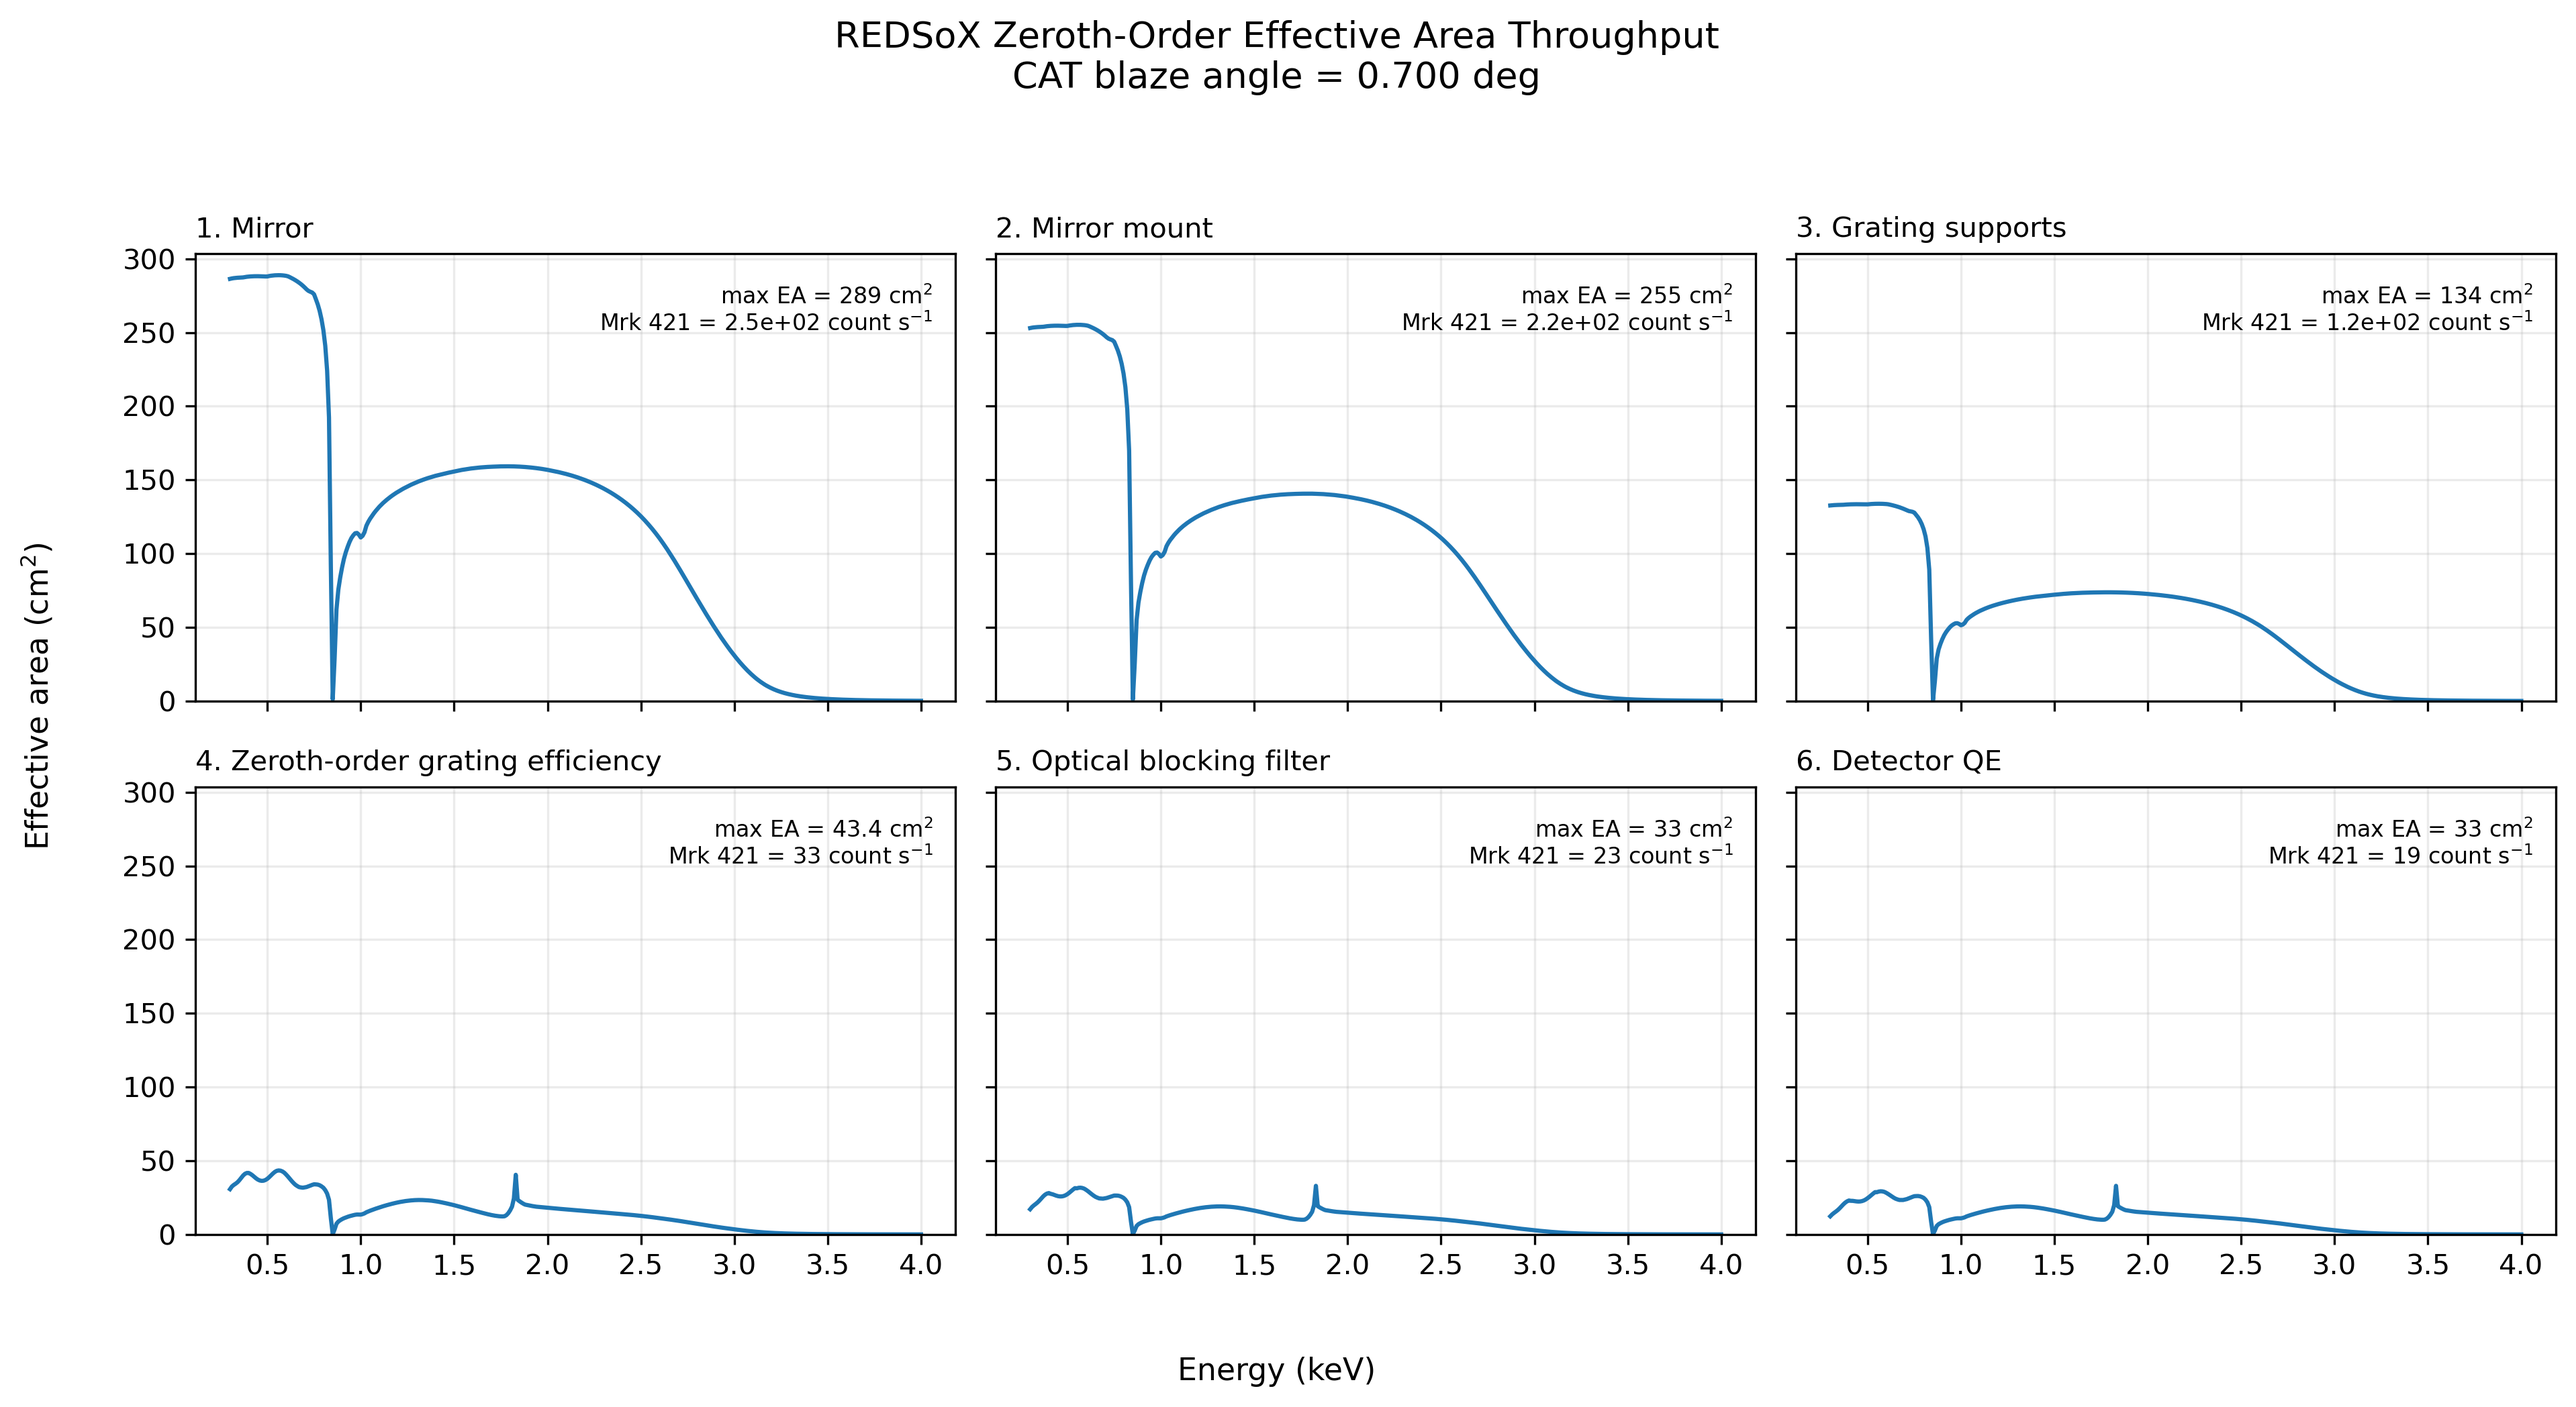
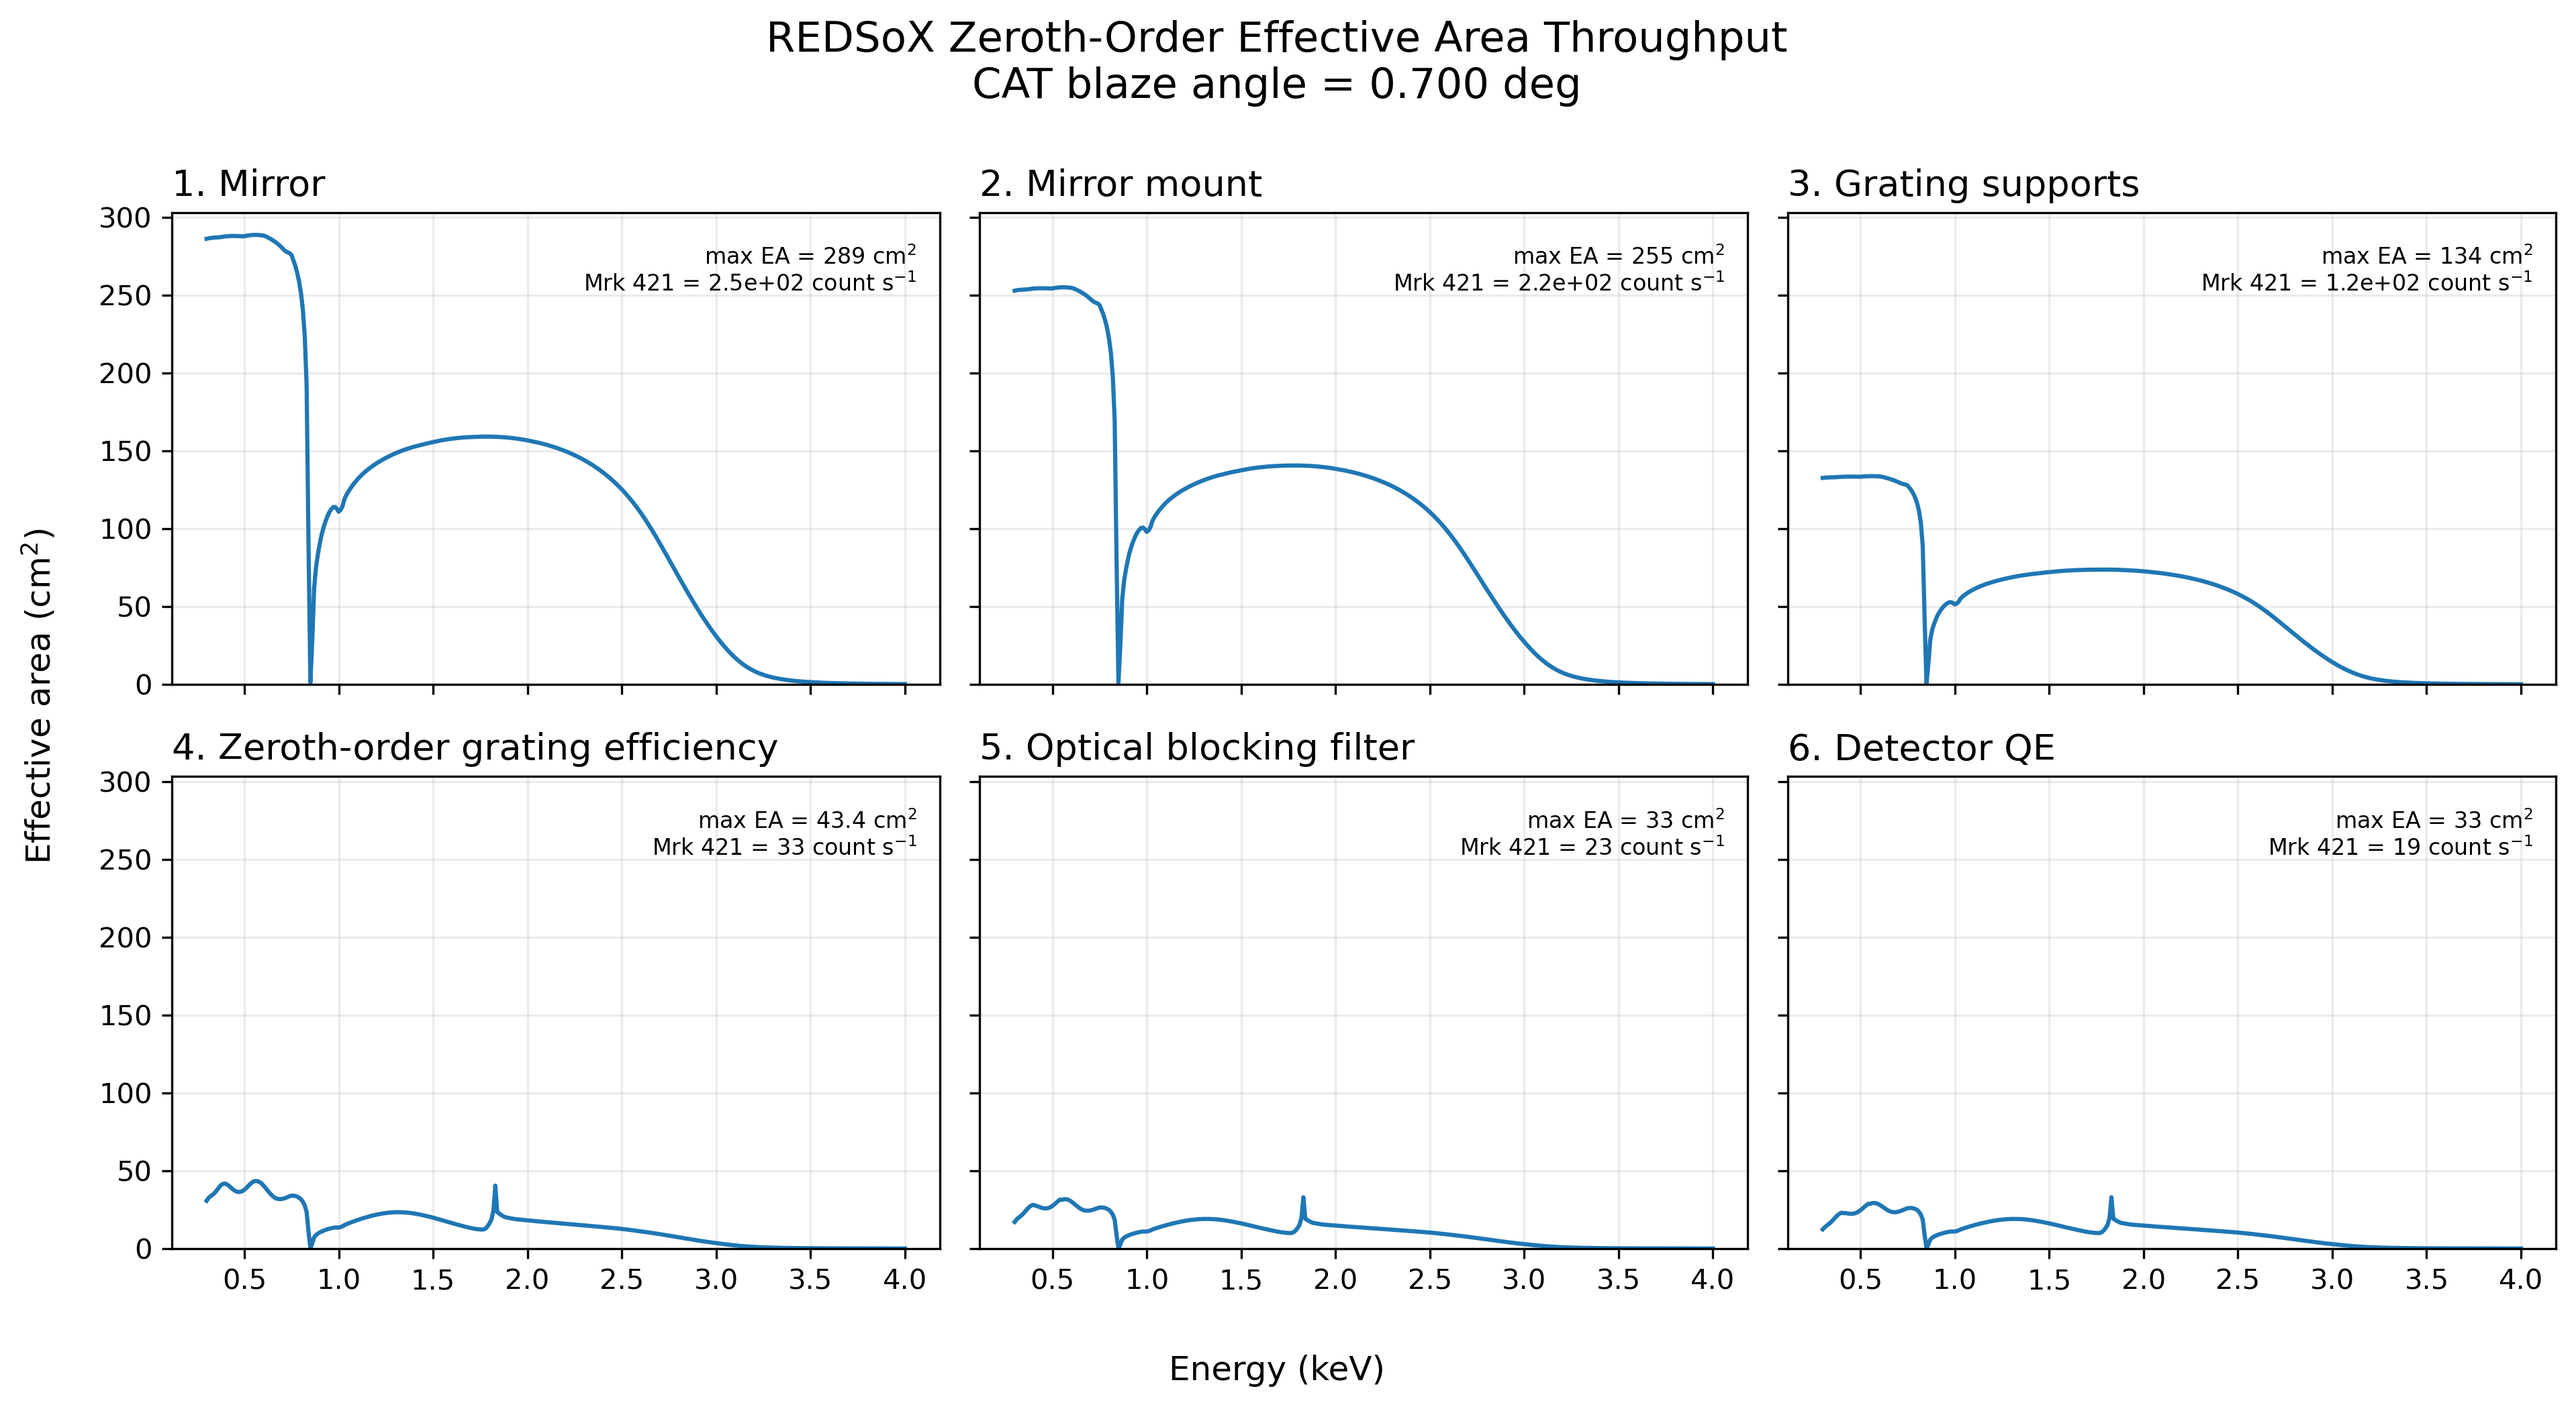
Updated stages plot

diff --git a/plot_redsox.py b/plot_redsox.py
@@ -491,7 +491,7 @@ def plot_effective_area_stages(
         area_plot = area[plot_order]
 
         ax.plot(energy_plot, area_plot, linewidth=1.5)
-        ax.set_title(stage_labels[stage_name], loc="left", fontsize=10)
+        ax.set_title(stage_labels[stage_name], loc="left", fontsize=13)
         ax.set_ylim(0.0, common_ymax)
         ax.grid(alpha=0.25)
 
@@ -512,16 +512,16 @@ def plot_effective_area_stages(
             fontsize=8,
         )
 
-    fig.supxlabel("Energy (keV)", fontsize=11)
-    fig.supylabel(r"Effective area (cm$^2$)", fontsize=11)
+    fig.supxlabel("Energy (keV)", fontsize=12)
+    fig.supylabel(r"Effective area (cm$^2$)", fontsize=12)
 
     fig.suptitle(
         "REDSoX Zeroth-Order Effective Area Throughput\n"
         f"CAT blaze angle = {selected_theta:.3f} deg",
-        fontsize=13,
+        fontsize=15,
     )
 
-    fig.tight_layout(rect=(0.02, 0.02, 1.0, 0.94))
+    fig.tight_layout(rect=(0.01, 0.01, 1.0, 0.98))
     save_figure(fig, output_path)
 
 
